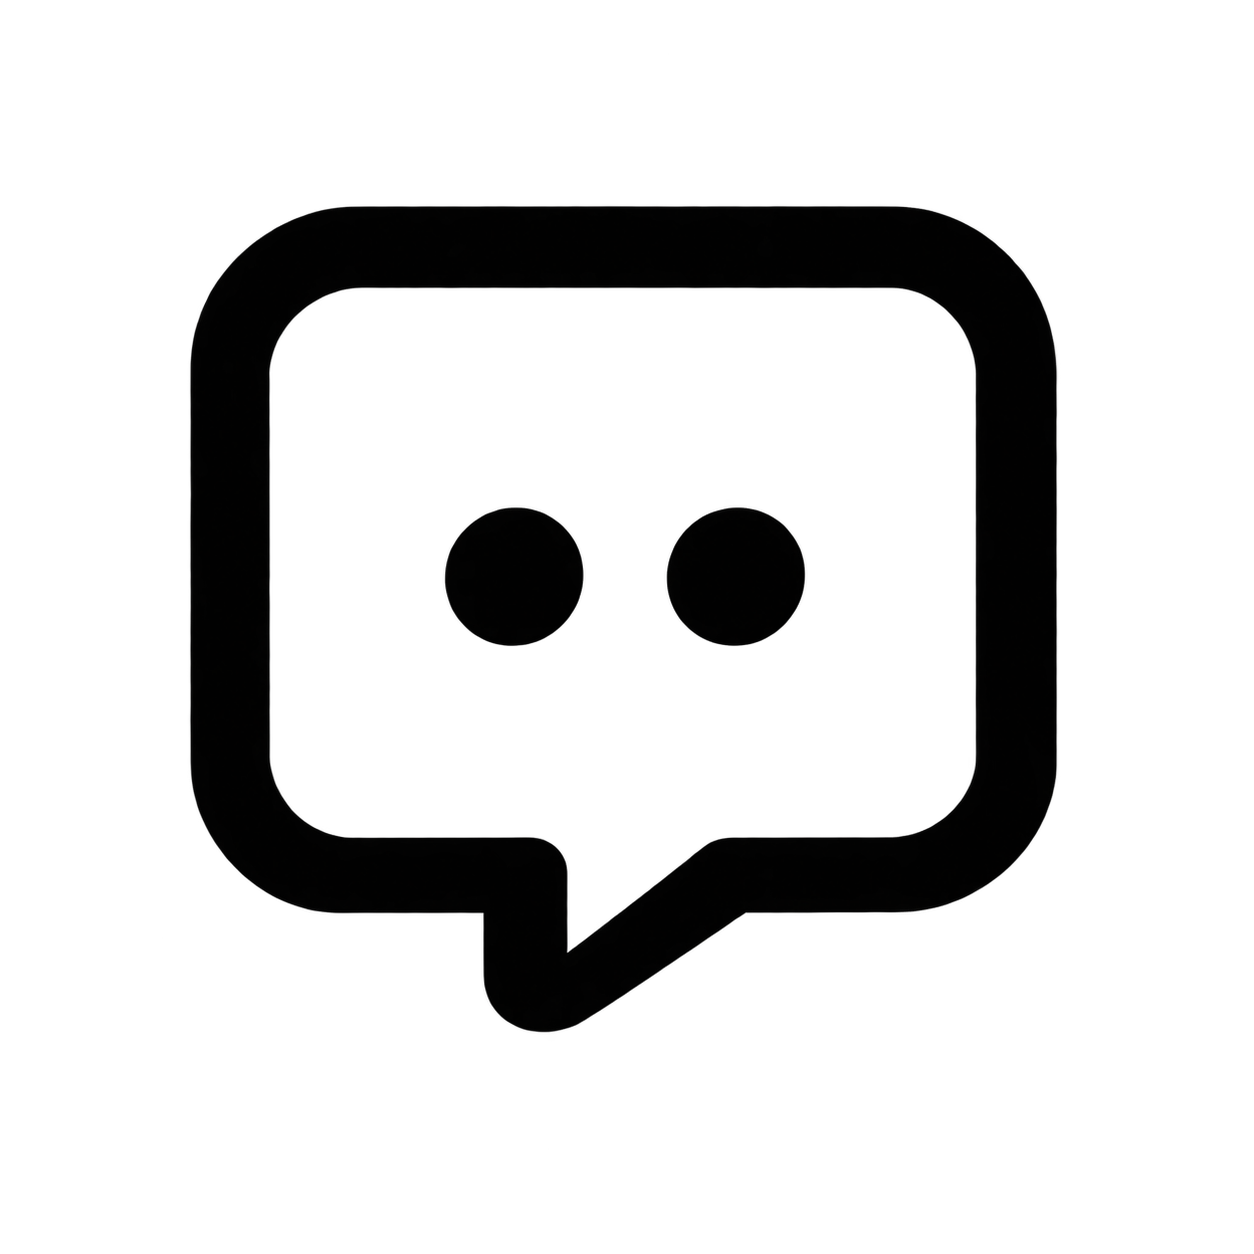
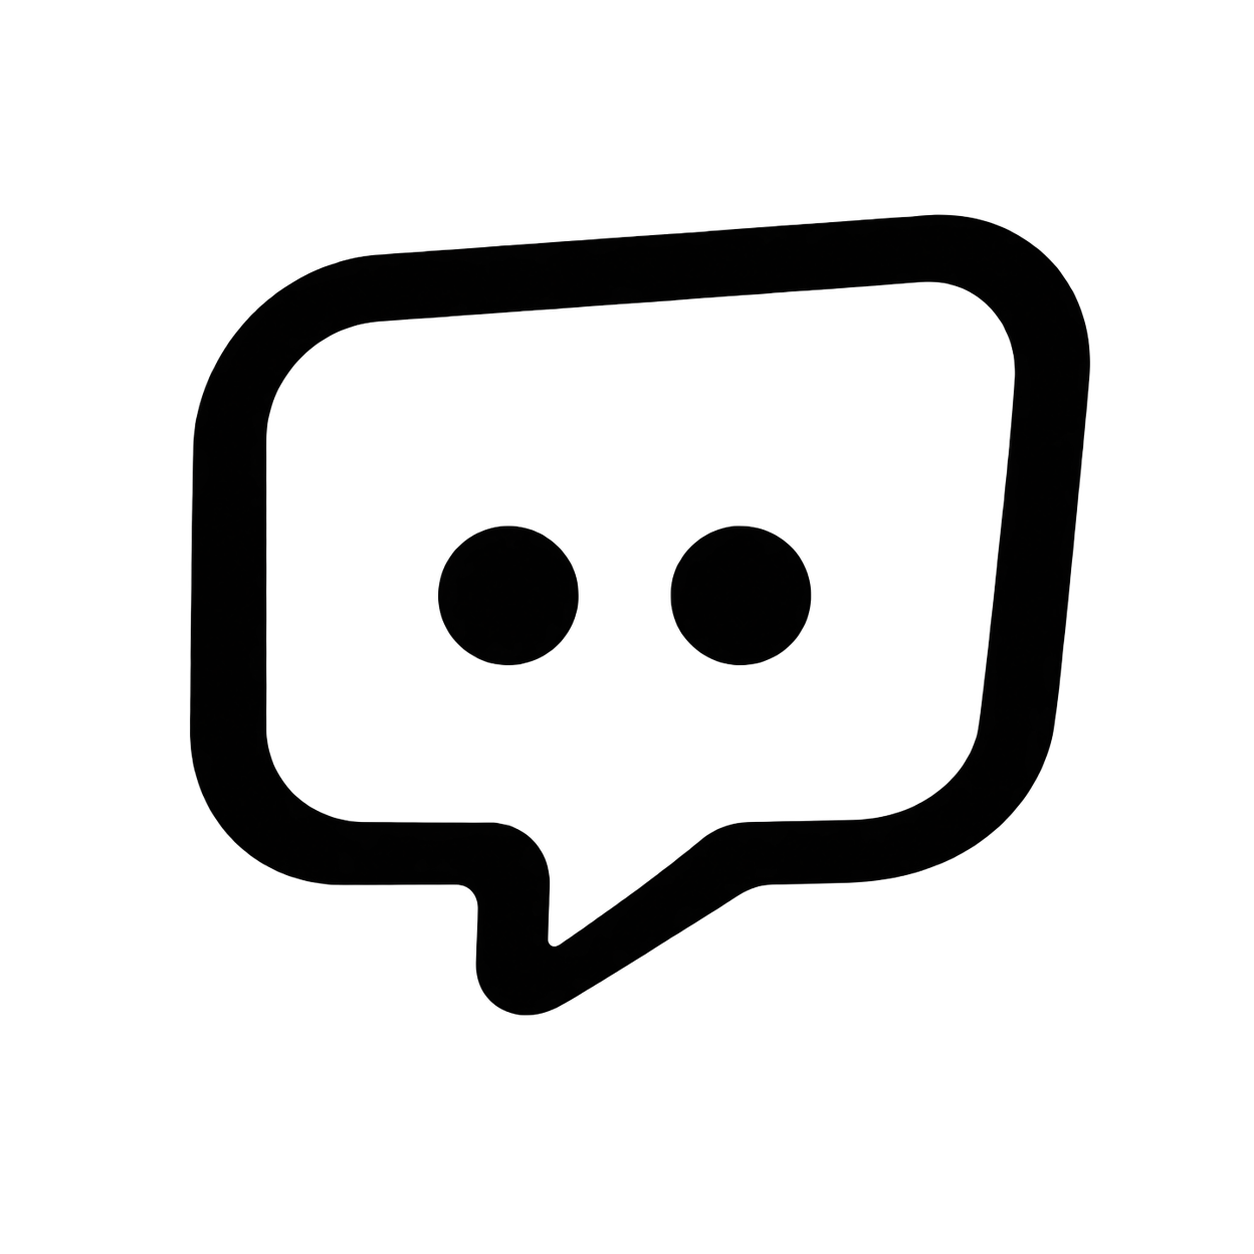
M8 plan; Meta: stop declaring review ingestion that does not exist

diff --git a/packages/providers/src/meta/graph.ts b/packages/providers/src/meta/graph.ts
@@ -55,9 +55,11 @@ export const FB_CAPS = (): Capabilities => ({
   formats: ["text", "image", "carousel", "video", "reel"],
   scheduling: "native",
   limits: { textMaxChars: 63_206, imagesMax: 10, videoMaxSeconds: 14_400, mentions: true, firstComment: true, links: "inline", altText: true, videoMaxBytes: 10 * 1024 * 1024 * 1024 },
-  inbox: { comments: true, mentions: true, messages: true, reviews: true, reply: true },
+  // Page ratings/recommendations are not ingested yet; declaring false keeps the capability table honest.
+  inbox: { comments: true, mentions: true, messages: true, reviews: false, reply: true },
   insights: { organic: true, audience: true },
   ads: { import: true, manage: true },
   ingestion: { webhooks: true, polling: true },
+  reasons: { reviews: "Facebook Page recommendations aren't imported yet." },
   checkedAt: now(),
 });

diff --git a/docs/IMPLEMENTATION_PLAN.md b/docs/IMPLEMENTATION_PLAN.md
@@ -147,6 +147,26 @@ Notes
 
 ---
 
+## Milestone 8 — Stand out (from `docs/research/`, started 2026-08-28)
+
+Positioning: **the honest social OS** — never a duplicate or phantom failure, every number has a definition, missing is never zero, platform limits shown before publish, AI drafts but a person presses send. Pricing (flat per workspace, unlimited seats, free client reviewers) is a product decision recorded in `docs/research/positioning-2026.html`; billing lands after it.
+
+| # | Item | Status |
+|---|---|---|
+| 8.1 | Publish receipts — per-variant timeline (validated → sent → confirmed/reconciled, remote id, cost) on post detail + calendar | ⏳ |
+| 8.2 | Capability contract — public `/capabilities` page generated from `packages/providers`, in-app "why not" everywhere a control is disabled; fix Meta `reviews` over-declaration | ⏳ (Meta fix ✅) |
+| 8.3 | Metric continuity — Meta reach → "viewers" retirement: dual-track definitions, break annotations on charts/exports | ⏳ |
+| 8.4 | Rights & authorisation clocks — UGC licence windows, Spark codes, Partnership Ads grants; block/warn on publish or boost past expiry | ⏳ |
+| 8.5 | Publish cost & quota preview — per-network cost/quota in the composer before queuing; quota gauge on Connected accounts | ⏳ |
+| 8.6 | AI disclosure per destination — one synthetic-media flag → YouTube/TikTok/Meta declarations, audited (EU AI Act Art. 50, 2 Aug 2026) | ⏳ |
+| 8.7 | Public API + MCP server — API keys, draft/approve/schedule/report endpoints with approval gates intact | ⏳ |
+| 8.8 | AI that drafts, never publishes — caption variants, repurposing, inbox reply drafts grounded in brand voice; always lands as a draft | ⏳ |
+| 8.9 | Table stakes — evergreen recycling, hashtag sets, CSV import | ⏳ |
+| 8.10 | Review management — Google Business Profile adapter feeding the inbox `review` kind (human-only reply gate) | ⏳ |
+| 8.11 | Agency per-client cost & margin roll-up | after billing |
+
+---
+
 ## Continuous tracks (every milestone)
 
 Accessibility review (WCAG 2.2 AA), threat model updates, privacy/retention, performance budgets (P75 nav < 2.5s), i18n-ready strings, connector maintenance, docs/ADRs.
